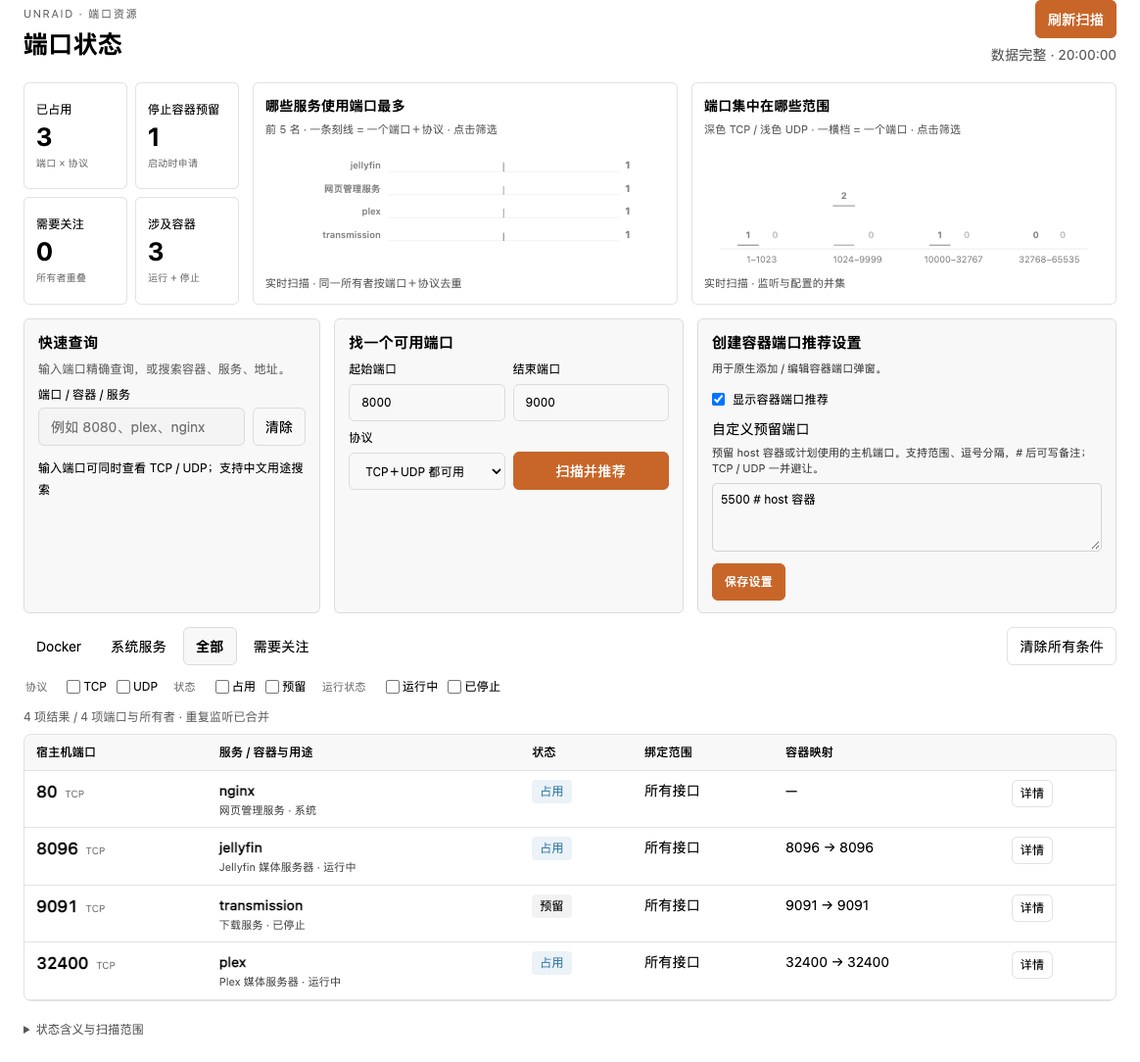
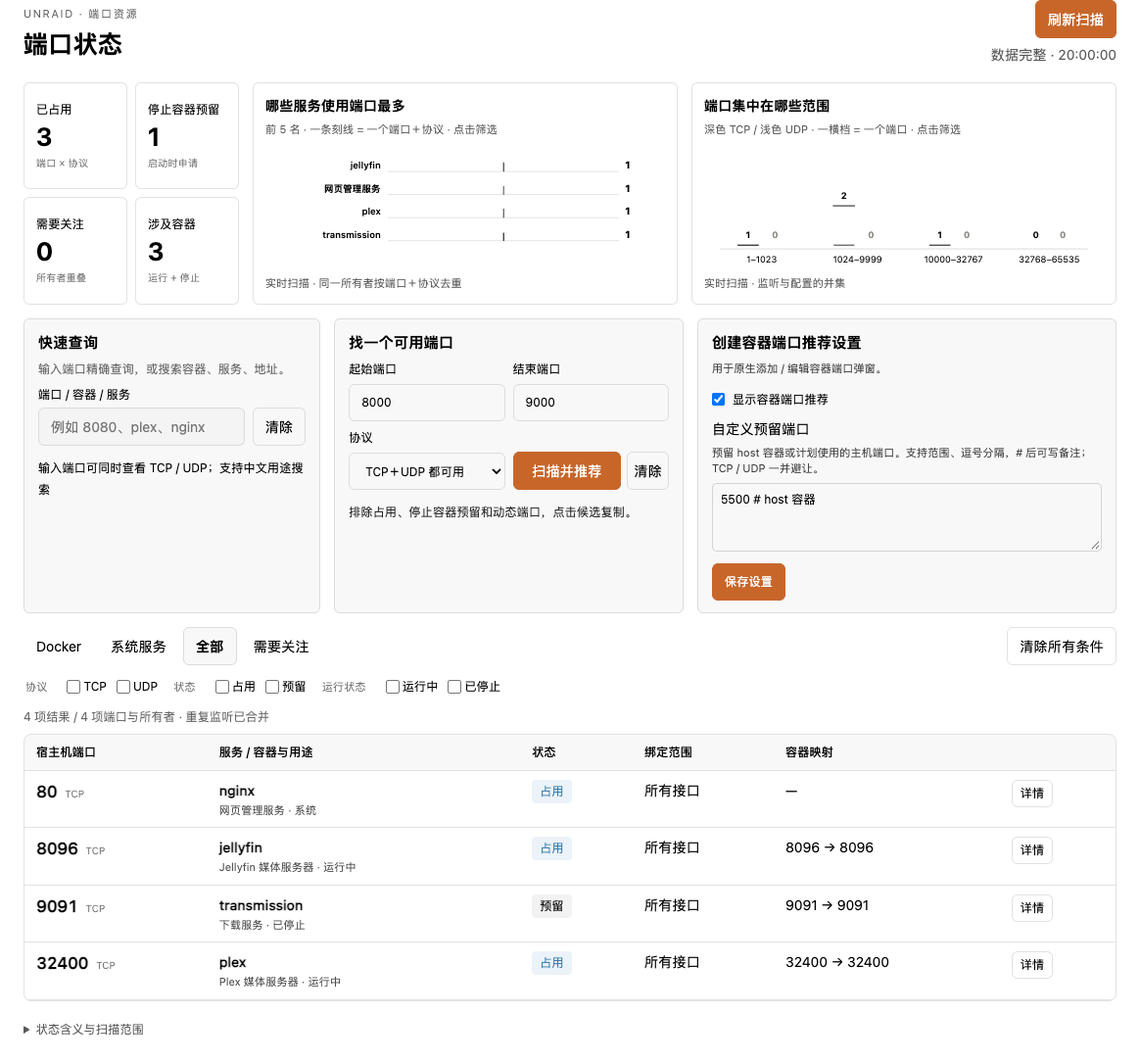
Fix primary button states and add available-port clear action

Changed region(s): [[0.3093, 0.4262, 0.5876, 0.4871], [0.2784, 0.1522, 0.3402, 0.1827]]

diff --git a/src/port-manager/assets/app.css b/src/port-manager/assets/app.css
@@ -1,4 +1,4 @@
-#port-manager{--pm-line:rgba(128,128,128,.23);--pm-soft:rgba(128,128,128,.06);--pm-accent:#c8662a;max-width:1440px;margin:24px auto;padding:0 24px 24px;font:14px/1.5 system-ui,sans-serif;color:inherit}#port-manager *{box-sizing:border-box}#port-manager h2{font-size:30px;font-weight:650;margin:6px 0}#port-manager h3{font-size:17px;margin:0 0 8px}#port-manager p{margin:6px 0}#port-manager button,#port-manager input,#port-manager select{font:inherit;color:inherit;border:1px solid var(--pm-line);border-radius:6px;background:transparent;padding:8px 12px;min-height:38px;width:auto;margin:0}#port-manager button{cursor:pointer}#port-manager button:hover{background:var(--pm-soft)}#port-manager button:disabled{opacity:.5;cursor:wait}#port-manager :focus-visible{outline:2px solid var(--pm-accent);outline-offset:3px}#port-manager .pm-primary{background:var(--pm-accent);border-color:var(--pm-accent);color:#fff}#port-manager .pm-primary:hover{filter:brightness(.95)}#port-manager .pm-header{display:flex;justify-content:space-between;align-items:center;margin-bottom:24px}#port-manager .pm-header>div:last-child{text-align:right}#port-manager .pm-header p{opacity:.65}.pm-eyebrow{font-size:11px;letter-spacing:1.6px;opacity:.6}#port-manager .pm-metrics{display:grid;grid-template-columns:repeat(4,1fr);gap:14px;margin-bottom:20px}#port-manager .pm-metrics button{text-align:left;padding:18px 20px;border-radius:9px}#port-manager .pm-metrics span,#port-manager .pm-metrics small{display:block}#port-manager .pm-metrics strong{display:block;font-size:32px;line-height:1.3;margin:10px 0 6px;font-weight:650}#port-manager .pm-metrics small{font-size:12px;opacity:.55}#port-manager .pm-workspace{display:grid;grid-template-columns:1fr 1.25fr;gap:20px;margin-bottom:24px}#port-manager .pm-query,#port-manager .pm-recommend{padding:20px;border:1px solid var(--pm-line);border-radius:9px;background:var(--pm-soft)}#port-manager .pm-query>p{opacity:.6;font-size:12px}#port-manager .pm-search-label{display:block;font-size:12px;margin:14px 0 6px}#port-manager .pm-search-box{display:flex;gap:8px}#port-manager .pm-search-box input{flex:1;min-width:0;width:100%;background:rgba(128,128,128,.03)}#port-manager #pm-answer{font-size:12px;margin-top:12px;line-height:1.8}#port-manager .pm-range{display:flex;align-items:end;gap:8px;margin-top:16px}#port-manager .pm-range label{display:block;min-width:0;font-size:12px}#port-manager .pm-range input{display:block;width:105px;margin-top:6px}#port-manager .pm-range select{display:block;margin-top:6px}#port-manager .pm-range>span{align-self:center;margin-top:20px;opacity:.5}#port-manager #pm-available{display:flex;flex-wrap:wrap;gap:6px;margin-top:14px;font-size:12px;opacity:.85}#port-manager .pm-candidate{min-height:30px;padding:4px 10px;font-variant-numeric:tabular-nums;background:rgba(128,128,128,.05)}#port-manager .pm-list-header{display:flex;align-items:center;justify-content:space-between;gap:14px}#port-manager .pm-tabs{display:flex;gap:4px}#port-manager .pm-tabs button{border-color:transparent}#port-manager .pm-tabs button[aria-pressed=true]{background:var(--pm-soft);border-color:var(--pm-line);font-weight:650}#port-manager .pm-filters{display:flex;gap:8px}#port-manager #pm-summary{font-size:12px;opacity:.6;margin:12px 0}#port-manager .pm-table{overflow:auto;border:1px solid var(--pm-line);border-radius:8px;max-height:620px}#port-manager table{width:100%;border-collapse:collapse;margin:0}#port-manager th,#port-manager td{padding:13px 16px;text-align:left;border-bottom:1px solid var(--pm-line);vertical-align:top}#port-manager th{font-size:12px;font-weight:500;background:var(--pm-soft);white-space:nowrap}#port-manager td:nth-child(2){min-width:180px}#port-manager td strong{font-weight:550}#port-manager td small{display:block;font-size:11px;opacity:.5;margin-top:4px}#port-manager .pm-port{font-size:17px;font-variant-numeric:tabular-nums}#port-manager .pm-proto{font-size:10px;margin-left:8px;opacity:.55}#port-manager .pm-badge{display:inline-block;border-radius:4px;padding:3px 8px;font-size:12px;white-space:nowrap}#port-manager .pm-occupied{background:rgba(57,124,183,.1);color:#377da9}#port-manager .pm-configured{background:rgba(128,128,128,.1)}#port-manager .pm-warning{background:rgba(192,134,37,.12);color:#a16b12}#port-manager .pm-conflict{background:rgba(203,64,64,.1);color:#c04438}#port-manager details summary{cursor:pointer}#port-manager td details{min-width:90px;max-width:330px;font-size:12px}#port-manager td details p{overflow-wrap:anywhere}#port-manager .pm-help{margin-top:20px;font-size:12px;opacity:.65}#port-manager .pm-empty{text-align:center;padding:36px} @media(max-width:1000px){#port-manager .pm-workspace{grid-template-columns:1fr}#port-manager .pm-list-header{align-items:start;flex-direction:column}}@media(max-width:650px){#port-manager{padding:0 12px}#port-manager .pm-metrics{grid-template-columns:repeat(2,1fr)}#port-manager .pm-header{align-items:start}#port-manager .pm-range{flex-wrap:wrap}#port-manager .pm-tabs,#port-manager .pm-filters{flex-wrap:wrap}#port-manager .pm-header h2{font-size:24px}}
+#port-manager{--pm-line:rgba(128,128,128,.23);--pm-soft:rgba(128,128,128,.06);--pm-accent:#c8662a;max-width:1440px;margin:24px auto;padding:0 24px 24px;font:14px/1.5 system-ui,sans-serif;color:inherit}#port-manager *{box-sizing:border-box}#port-manager h2{font-size:30px;font-weight:650;margin:6px 0}#port-manager h3{font-size:17px;margin:0 0 8px}#port-manager p{margin:6px 0}#port-manager button,#port-manager input,#port-manager select{font:inherit;color:inherit;border:1px solid var(--pm-line);border-radius:6px;background:transparent;padding:8px 12px;min-height:38px;width:auto;margin:0}#port-manager button{cursor:pointer;letter-spacing:normal;white-space:nowrap}#port-manager button:hover{background:var(--pm-soft)}#port-manager button:disabled{opacity:.5;cursor:wait}#port-manager :focus-visible{outline:2px solid var(--pm-accent);outline-offset:3px}#port-manager button.pm-primary{background:var(--pm-accent);border-color:var(--pm-accent);color:#fff}#port-manager button.pm-primary:hover{background:var(--pm-accent);color:#fff;filter:brightness(.95)}#port-manager .pm-header{display:flex;justify-content:space-between;align-items:center;margin-bottom:24px}#port-manager .pm-header>div:last-child{text-align:right}#port-manager .pm-header p{opacity:.65}.pm-eyebrow{font-size:11px;letter-spacing:1.6px;opacity:.6}#port-manager .pm-metrics{display:grid;grid-template-columns:repeat(4,1fr);gap:14px;margin-bottom:20px}#port-manager .pm-metrics button{text-align:left;padding:18px 20px;border-radius:9px}#port-manager .pm-metrics span,#port-manager .pm-metrics small{display:block}#port-manager .pm-metrics strong{display:block;font-size:32px;line-height:1.3;margin:10px 0 6px;font-weight:650}#port-manager .pm-metrics small{font-size:12px;opacity:.55}#port-manager .pm-workspace{display:grid;grid-template-columns:1fr 1.25fr;gap:20px;margin-bottom:24px}#port-manager .pm-query,#port-manager .pm-recommend{padding:20px;border:1px solid var(--pm-line);border-radius:9px;background:var(--pm-soft)}#port-manager .pm-query>p{opacity:.6;font-size:12px}#port-manager .pm-search-label{display:block;font-size:12px;margin:14px 0 6px}#port-manager .pm-search-box{display:flex;gap:8px}#port-manager .pm-search-box input{flex:1;min-width:0;width:100%;background:rgba(128,128,128,.03)}#port-manager #pm-answer{font-size:12px;margin-top:12px;line-height:1.8}#port-manager .pm-range{display:flex;align-items:end;gap:8px;margin-top:16px}#port-manager .pm-range label{display:block;min-width:0;font-size:12px}#port-manager .pm-range input{display:block;width:105px;margin-top:6px}#port-manager .pm-range select{display:block;margin-top:6px}#port-manager .pm-range>span{align-self:center;margin-top:20px;opacity:.5}#port-manager #pm-available{display:flex;flex-wrap:wrap;gap:6px;margin-top:14px;font-size:12px;opacity:.85}#port-manager .pm-candidate{min-height:30px;padding:4px 10px;font-variant-numeric:tabular-nums;background:rgba(128,128,128,.05)}#port-manager .pm-list-header{display:flex;align-items:center;justify-content:space-between;gap:14px}#port-manager .pm-tabs{display:flex;gap:4px}#port-manager .pm-tabs button{border-color:transparent}#port-manager .pm-tabs button[aria-pressed=true]{background:var(--pm-soft);border-color:var(--pm-line);font-weight:650}#port-manager .pm-filters{display:flex;gap:8px}#port-manager #pm-summary{font-size:12px;opacity:.6;margin:12px 0}#port-manager .pm-table{overflow:auto;border:1px solid var(--pm-line);border-radius:8px;max-height:620px}#port-manager table{width:100%;border-collapse:collapse;margin:0}#port-manager th,#port-manager td{padding:13px 16px;text-align:left;border-bottom:1px solid var(--pm-line);vertical-align:top}#port-manager th{font-size:12px;font-weight:500;background:var(--pm-soft);white-space:nowrap}#port-manager td:nth-child(2){min-width:180px}#port-manager td strong{font-weight:550}#port-manager td small{display:block;font-size:11px;opacity:.5;margin-top:4px}#port-manager .pm-port{font-size:17px;font-variant-numeric:tabular-nums}#port-manager .pm-proto{font-size:10px;margin-left:8px;opacity:.55}#port-manager .pm-badge{display:inline-block;border-radius:4px;padding:3px 8px;font-size:12px;white-space:nowrap}#port-manager .pm-occupied{background:rgba(57,124,183,.1);color:#377da9}#port-manager .pm-configured{background:rgba(128,128,128,.1)}#port-manager .pm-warning{background:rgba(192,134,37,.12);color:#a16b12}#port-manager .pm-conflict{background:rgba(203,64,64,.1);color:#c04438}#port-manager details summary{cursor:pointer}#port-manager td details{min-width:90px;max-width:330px;font-size:12px}#port-manager td details p{overflow-wrap:anywhere}#port-manager .pm-help{margin-top:20px;font-size:12px;opacity:.65}#port-manager .pm-empty{text-align:center;padding:36px} @media(max-width:1000px){#port-manager .pm-workspace{grid-template-columns:1fr}#port-manager .pm-list-header{align-items:start;flex-direction:column}}@media(max-width:650px){#port-manager{padding:0 12px}#port-manager .pm-metrics{grid-template-columns:repeat(2,1fr)}#port-manager .pm-header{align-items:start}#port-manager .pm-range{flex-wrap:wrap}#port-manager .pm-tabs,#port-manager .pm-filters{flex-wrap:wrap}#port-manager .pm-header h2{font-size:24px}}
 #port-manager .pm-metrics button{white-space:normal}#port-manager .pm-empty{white-space:normal}
 /* Compact overview, template-derived monochrome charts, stable detail drawer. */
 #port-manager .pm-header{margin-bottom:12px}#port-manager h2{font-size:25px;margin:3px 0}#port-manager .pm-overview{display:grid;grid-template-columns:220px 1fr 1fr;gap:14px;margin-bottom:14px}#port-manager .pm-metrics{grid-template-columns:1fr 1fr;gap:8px;margin:0}#port-manager .pm-metrics button{padding:10px 12px;border-radius:6px}#port-manager .pm-metrics strong{font-size:26px;margin:2px 0}#port-manager .pm-metrics span{font-size:12px}#port-manager .pm-metrics small{font-size:10px}#port-manager .pm-chart-card{border:1px solid var(--pm-line);border-radius:6px;padding:12px;min-width:0;--pm-chart-ink:currentColor;--pm-chart-muted:currentColor}#port-manager .pm-chart-card h3{font-size:14px;margin:0}#port-manager .pm-chart-card p,#port-manager .pm-chart-card small{font-size:11px;opacity:.65}#port-manager .pm-chart-card svg{width:100%;height:130px;display:block}#port-manager .pm-workspace{grid-template-columns:1fr 1.35fr;gap:14px;margin-bottom:14px}#port-manager .pm-query,#port-manager .pm-recommend{padding:12px 14px;border-radius:6px}#port-manager h3{font-size:15px}#port-manager .pm-search-label{margin:8px 0 4px}#port-manager .pm-range{margin-top:8px}#port-manager .pm-range input{width:90px}#port-manager .pm-range select{max-width:190px}#port-manager .pm-filters{display:flex;flex-wrap:wrap;gap:14px;margin-top:8px}#port-manager .pm-filters fieldset{display:flex;flex-wrap:wrap;align-items:center;gap:10px;border:0;padding:0;margin:0;min-width:0}#port-manager .pm-filters legend{float:left;font-size:11px;opacity:.55;margin:0 8px 0 0;line-height:28px;width:auto}#port-manager .pm-filters label{display:inline-flex;align-items:center;gap:3px;font-size:12px;cursor:pointer;white-space:nowrap}#port-manager .pm-filters input{min-height:0;width:14px;height:14px;padding:0;margin:0;appearance:auto;accent-color:var(--pm-accent)}#port-manager .pm-filter-tag{display:inline-block;padding:2px 6px;font-size:11px;border:1px solid var(--pm-line);border-radius:4px;margin:8px 5px 0 0}#port-manager #pm-summary{margin:8px 0}#port-manager th,#port-manager td{padding:9px 12px}#port-manager td small{margin-top:2px;font-size:11px;opacity:.7}#port-manager .pm-detail-button{min-height:28px;padding:2px 8px;font-size:12px}#port-manager .pm-candidate-group{width:100%}#port-manager .pm-candidate-group>span{display:block;font-weight:600;margin-bottom:4px}#port-manager .pm-candidate-group>div{display:flex;flex-wrap:wrap;gap:5px}#port-manager .pm-candidate-group+.pm-candidate-group{border-top:1px solid var(--pm-line);padding-top:8px;margin-top:4px}#port-manager #pm-detail{position:fixed;inset:0 0 0 auto;margin:0;width:min(440px,95vw);height:100dvh;max-height:100dvh;max-width:95vw;border:0;border-left:1px solid var(--pm-line);border-radius:0;padding:22px;background:var(--pm-drawer-bg,#f0f1f2);color:inherit;overflow:auto}#port-manager #pm-detail::backdrop{background:rgba(0,0,0,.25)}#port-manager .pm-detail-header{display:flex;justify-content:space-between;align-items:center;gap:10px;border-bottom:1px solid var(--pm-line);padding-bottom:14px}#port-manager .pm-detail-purpose{font-size:20px;font-weight:600;margin:22px 0 8px}#port-manager dl{display:grid;grid-template-columns:82px 1fr;gap:14px 10px;margin-top:24px}#port-manager dt{opacity:.6}#port-manager dd{margin:0;overflow-wrap:anywhere}#port-manager .pm-detail-note{border-top:1px solid var(--pm-line);padding-top:12px}@media(prefers-reduced-motion:no-preference){#port-manager .pm-chart-card svg{animation:pm-fade .35s ease-out}@keyframes pm-fade{from{opacity:.2}to{opacity:1}}}@media(max-width:1100px){#port-manager .pm-overview{grid-template-columns:180px 1fr 1fr}#port-manager .pm-workspace{grid-template-columns:1fr}#port-manager .pm-list-header{flex-direction:row;align-items:center}}@media(max-width:760px){#port-manager .pm-overview{grid-template-columns:1fr 1fr}#port-manager .pm-metrics{grid-column:1/-1;grid-template-columns:repeat(4,1fr)}#port-manager .pm-chart-card svg{height:110px}}@media(max-width:520px){#port-manager .pm-overview{grid-template-columns:1fr}#port-manager .pm-metrics{grid-template-columns:repeat(2,1fr)}#port-manager .pm-chart-card svg{height:140px}#port-manager .pm-list-header{flex-wrap:wrap}#port-manager .pm-range select{max-width:160px}}
@@ -11,7 +11,6 @@
 #port-manager .pm-settings-toggle{display:flex;align-items:center;gap:8px;margin:8px 0 10px}
 #port-manager .pm-settings textarea{box-sizing:border-box;width:100%;max-width:680px;display:block;padding:10px;border:1px solid #8885;border-radius:5px;background:transparent;color:inherit;font:inherit;font-size:13px;line-height:1.5;resize:vertical}
 #port-manager .pm-settings-actions{display:flex;align-items:center;flex-wrap:wrap;gap:12px;margin-top:12px;font-size:12px}
-#port-manager .pm-settings-actions button.pm-primary:hover{background:var(--pm-accent);color:#fff}
 #port-manager .pm-settings-toggle input{min-height:0;padding:0;flex:none}
 
 #port-manager .pm-workspace>section{min-width:0}
@@ -24,3 +23,7 @@
 #port-manager .pm-settings textarea{font-size:12px;padding:7px 8px}
 @media(min-width:1050px){#port-manager .pm-workspace{grid-template-columns:minmax(0,.85fr) minmax(0,1fr) minmax(0,1.2fr)}}
 @media(max-width:1049px){#port-manager .pm-workspace{grid-template-columns:1fr}}
+
+#port-manager .pm-range-actions{display:flex;gap:6px;align-items:center;min-width:0}
+#port-manager .pm-range-actions .pm-primary{flex:1;min-width:0}
+#port-manager button.pm-primary:active{background:var(--pm-accent);color:#fff;filter:brightness(.9)}

diff --git a/src/port-manager/assets/app.js b/src/port-manager/assets/app.js
@@ -1,6 +1,6 @@
 (()=>{'use strict';const root=document.getElementById('port-manager');if(!root)return;const el=id=>document.getElementById('pm-'+id),labels={occupied:'占用',configured:'预留',conflict:'启动冲突风险',warning:'绑定重叠，需确认'},params=new URLSearchParams(location.search);
 root.style.setProperty('--pm-drawer-bg',getComputedStyle(document.body).backgroundColor);const defaultView='all';
-let snapshot=null,view=params.get('view')||defaultView,busy=false,ownerFilter=null,rangeFilter=null,returnFocus=null;
+let snapshot=null,view=params.get('view')||defaultView,busy=false,ownerFilter=null,rangeFilter=null,returnFocus=null,rangeGeneration=0;
 const make=(tag,text,cls)=>{const e=document.createElement(tag);if(text!==undefined)e.textContent=text;if(cls)e.className=cls;return e;};const selected=k=>[...root.querySelectorAll(`input[name="pm-${k}"]:checked`)].map(c=>c.value);
 function setView(v){view=v;root.querySelectorAll('[data-view]').forEach(b=>b.setAttribute('aria-pressed',String(b.dataset.view===view)));}
 function reset(){ownerFilter=null;rangeFilter=null;root.querySelectorAll('.pm-filters input').forEach(c=>c.checked=false);el('search').value='';setView('all');render();}
@@ -9,8 +9,9 @@ function render(){el('risk-filter').hidden=!(snapshot?.summary.risks||view==='ri
 function drawCharts(){const rows=snapshot?.groups||[],C=window.PortManagerCharts;C.tickRows(el('chart-owners'),C.owners(rows).slice(0,5),d=>{ownerFilter=d;rangeFilter=null;el('search').value='';setView('all');render();});C.pairedRungs(el('chart-ranges'),rows,d=>{rangeFilter=d;ownerFilter=null;el('search').value='';setView('all');render();});}
 async function copy(port,button){try{if(navigator.clipboard&&window.isSecureContext)await navigator.clipboard.writeText(String(port));else{const input=make('textarea',String(port));input.style.position='fixed';input.style.opacity='0';root.append(input);input.select();const ok=document.execCommand('copy');input.remove();if(!ok)throw Error();}button.textContent='已复制 '+port;setTimeout(()=>button.textContent=port,1500);}catch{button.textContent='请手动复制 '+port;}}
 function candidates(data,protocol){el('available').replaceChildren();const names={both:'TCP＋UDP 都可用',tcp:'仅 TCP 可用',udp:'仅 UDP 可用'},groups=protocol==='both'?['both','tcp','udp']:protocol==='tcp'?['both','tcp']:['both','udp'];let total=0;for(const kind of groups){const items=data.protocolAvailability.filter(r=>r.kind===kind);if(!items.length)continue;const section=make('div',undefined,'pm-candidate-group'),heading=make('span'),list=make('div'),more=make('button','更多');more.type='button';let shown=0;const next=()=>{for(const item of items.slice(shown,shown+11)){const b=make('button',item.port,'pm-candidate');b.type='button';b.setAttribute('aria-label','复制 '+item.port+' '+names[kind]);b.addEventListener('click',()=>copy(item.port,b));list.insertBefore(b,more);}shown=Math.min(shown+11,items.length);heading.textContent=names[kind]+` · 共 ${items.length} 个，已显示 ${shown} 个`;more.hidden=shown===items.length;};more.addEventListener('click',next);list.append(more);section.append(heading,list);el('available').append(section);next();total+=items.length;}if(!total)el('available').textContent='范围内没有符合条件的候选';else el('available').prepend(make('p','已检查整个范围，分批展示候选；优先选择“两种都可用”。排除占用、预留、系统端口和动态端口。'));}
-async function scan(query=''){if(busy)return;busy=true;el('available').replaceChildren();el('refresh').disabled=true;el('find').querySelector('button').disabled=true;el('message').textContent='正在扫描…';try{const response=await fetch(root.dataset.api+'?'+query,{credentials:'same-origin',cache:'no-store'}),data=await response.json();if(!response.ok||data.error)throw Error(data.error||'扫描失败');snapshot=data;render();drawCharts();el('message').textContent=(data.complete?'数据完整':'数据不完整：'+data.errors.join('；'))+' · '+new Date(data.timestamp).toLocaleTimeString();if(data.protocolAvailability)candidates(data,new URLSearchParams(query).get('protocol'));}catch(error){snapshot=null;render();drawCharts();el('message').textContent=error.message;el('available').textContent='无法推荐：'+error.message;}finally{busy=false;el('refresh').disabled=false;el('find').querySelector('button').disabled=false;}}
+async function scan(query=''){if(busy)return;const generation=rangeGeneration;busy=true;el('available').replaceChildren();el('refresh').disabled=true;el('find').querySelector('button').disabled=true;el('message').textContent='正在扫描…';try{const response=await fetch(root.dataset.api+'?'+query,{credentials:'same-origin',cache:'no-store'}),data=await response.json();if(!response.ok||data.error)throw Error(data.error||'扫描失败');snapshot=data;render();drawCharts();el('message').textContent=(data.complete?'数据完整':'数据不完整：'+data.errors.join('；'))+' · '+new Date(data.timestamp).toLocaleTimeString();if(data.protocolAvailability&&generation===rangeGeneration)candidates(data,new URLSearchParams(query).get('protocol'));}catch(error){snapshot=null;render();drawCharts();el('message').textContent=error.message;if(generation===rangeGeneration)el('available').textContent='无法推荐：'+error.message;}finally{busy=false;el('refresh').disabled=false;el('find').querySelector('button').disabled=false;}}
 el('search').addEventListener('input',()=>{ownerFilter=null;rangeFilter=null;if(el('search').value.trim())setView('all');render();});root.querySelectorAll('.pm-filters input').forEach(c=>c.addEventListener('change',render));root.querySelectorAll('[data-view]').forEach(b=>b.addEventListener('click',()=>{setView(b.dataset.view);render();}));root.querySelectorAll('[data-metric]').forEach(b=>b.addEventListener('click',()=>{reset();const m=b.dataset.metric;if(['occupied','configured'].includes(m))root.querySelector(`input[name="pm-status"][value="${m}"]`).checked=true;setView(m==='risks'?'risks':m==='containers'?'Docker':'all');render();}));el('reset').addEventListener('click',reset);el('clear').addEventListener('click',()=>{el('search').value='';render();el('search').focus();});el('refresh').addEventListener('click',()=>scan());el('detail-close').addEventListener('click',()=>el('detail').close());el('detail').addEventListener('close',()=>returnFocus?.focus());el('detail').addEventListener('click',e=>{if(e.target===el('detail')){const box=el('detail').getBoundingClientRect();if(e.clientX<box.left||e.clientX>box.right||e.clientY<box.top||e.clientY>box.bottom)el('detail').close();}});
+el('clear-range').addEventListener('click',()=>{rangeGeneration++;el('start').value='';el('end').value='';el('find-protocol').value='both';el('available').textContent='排除占用、停止容器预留和动态端口，点击候选复制。';el('start').focus();});
 el('find').addEventListener('submit',e=>{e.preventDefault();const start=Number(el('start').value),end=Number(el('end').value);if(start>end){el('available').textContent='起始端口不能大于结束端口';return;}scan(new URLSearchParams({action:'available',start,end,protocol:el('find-protocol').value}).toString());});
 async function settings(save=false){const fields=el('settings-fields'),message=el('settings-message');fields.disabled=true;message.textContent=save?'正在保存…':'正在加载设置…';try{const options={credentials:'same-origin',cache:'no-store'};if(save){options.method='POST';options.body=new URLSearchParams({enabled:el('recommend-enabled').checked?'1':'0',reserved:el('reserved-ports').value,csrf_token:document.getElementById('pm-csrf-token').value});}const response=await fetch('/plugins/port-manager/include/settings.php',options),data=await response.json();if(!response.ok||data.error)throw Error(data.error||'设置操作失败');el('recommend-enabled').checked=data.enabled;el('reserved-ports').value=data.reserved;fields.disabled=false;message.textContent=save?'已保存，下次打开端口弹窗时生效。':'';}catch(error){message.textContent=error instanceof SyntaxError?'无法读取结果，请检查登录状态并刷新':error.message;if(save)fields.disabled=false;}}
 el('settings-form').addEventListener('submit',event=>{event.preventDefault();settings(true);});settings();

diff --git a/src/port-manager/include/view.html b/src/port-manager/include/view.html
@@ -1,10 +1,10 @@
-<link rel="stylesheet" href="/plugins/port-manager/assets/app.css?v=2026.10.04">
+<link rel="stylesheet" href="/plugins/port-manager/assets/app.css?v=2026.10.05">
 <section id="port-manager" data-api="/plugins/port-manager/include/api.php">
 <header class="pm-header"><div><div class="pm-eyebrow">UNRAID · 端口资源</div><h2>端口状态</h2></div><div><button id="pm-refresh" class="pm-primary">刷新扫描</button><p id="pm-message" role="status">正在扫描…</p></div></header>
 <div class="pm-overview"><div class="pm-metrics"><button data-metric="occupied"><span>已占用</span><strong id="pm-count-occupied">—</strong><small>端口 × 协议</small></button><button data-metric="configured"><span>停止容器预留</span><strong id="pm-count-configured">—</strong><small>启动时申请</small></button><button data-metric="risks"><span>需要关注</span><strong id="pm-count-risks">—</strong><small>所有者重叠</small></button><button data-metric="containers"><span>涉及容器</span><strong id="pm-count-containers">—</strong><small>运行 + 停止</small></button></div><section class="pm-chart-card"><h3>哪些服务使用端口最多</h3><p>前 5 名 · 一条刻线 = 一个端口＋协议 · 点击筛选</p><svg id="pm-chart-owners" role="img" aria-label="服务端口数量排名"></svg><small>实时扫描 · 同一所有者按端口＋协议去重</small></section><section class="pm-chart-card"><h3>端口集中在哪些范围</h3><p>深色 TCP / 浅色 UDP · 一横档 = 一个端口 · 点击筛选</p><svg id="pm-chart-ranges" role="img" aria-label="端口范围与协议分布"></svg><small>实时扫描 · 监听与配置的并集</small></section></div>
-<div class="pm-workspace"><section class="pm-query"><h3>快速查询</h3><p>输入端口精确查询，或搜索容器、服务、地址。</p><label class="pm-search-label" for="pm-search">端口 / 容器 / 服务</label><div class="pm-search-box"><input id="pm-search" type="search" placeholder="例如 8080、plex、nginx"><button id="pm-clear">清除</button></div><div id="pm-answer" aria-live="polite">输入端口即可查看 TCP / UDP 使用情况</div></section><section class="pm-recommend"><h3>找一个可用端口</h3><form id="pm-find"><div class="pm-range"><label>起始端口<input id="pm-start" type="number" min="1" max="65535" value="8000" required></label><span>—</span><label>结束端口<input id="pm-end" type="number" min="1" max="65535" value="9000" required></label><label>协议<select id="pm-find-protocol"><option value="both">TCP＋UDP 都可用</option><option value="tcp">TCP 可用</option><option value="udp">UDP 可用</option></select></label><button class="pm-primary">扫描并推荐</button></div></form><div id="pm-available" role="status">排除占用、停止容器预留和动态端口，点击候选复制。</div></section>
+<div class="pm-workspace"><section class="pm-query"><h3>快速查询</h3><p>输入端口精确查询，或搜索容器、服务、地址。</p><label class="pm-search-label" for="pm-search">端口 / 容器 / 服务</label><div class="pm-search-box"><input id="pm-search" type="search" placeholder="例如 8080、plex、nginx"><button id="pm-clear">清除</button></div><div id="pm-answer" aria-live="polite">输入端口即可查看 TCP / UDP 使用情况</div></section><section class="pm-recommend"><h3>找一个可用端口</h3><form id="pm-find"><div class="pm-range"><label>起始端口<input id="pm-start" type="number" min="1" max="65535" value="8000" required></label><span>—</span><label>结束端口<input id="pm-end" type="number" min="1" max="65535" value="9000" required></label><label>协议<select id="pm-find-protocol"><option value="both">TCP＋UDP 都可用</option><option value="tcp">TCP 可用</option><option value="udp">UDP 可用</option></select></label><div class="pm-range-actions"><button type="submit" class="pm-primary">扫描并推荐</button><button type="button" id="pm-clear-range">清除</button></div></div></form><div id="pm-available" role="status">排除占用、停止容器预留和动态端口，点击候选复制。</div></section>
 <section id="pm-container-settings" class="pm-settings"><h3>创建容器端口推荐设置</h3><p>用于原生添加 / 编辑容器端口弹窗。</p><form id="pm-settings-form"><fieldset id="pm-settings-fields" disabled><label class="pm-settings-toggle"><input id="pm-recommend-enabled" type="checkbox"> 显示容器端口推荐</label><label for="pm-reserved-ports">自定义预留端口</label><p id="pm-reserved-help">预留 host 容器或计划使用的主机端口。支持范围、逗号分隔，# 后可写备注；TCP / UDP 一并避让。</p><textarea id="pm-reserved-ports" rows="3" maxlength="32768" spellcheck="false" aria-describedby="pm-reserved-help" placeholder="5500 # 我的 host 容器&#10;5600-5610,6200 # 计划部署的服务"></textarea><div class="pm-settings-actions"><button type="submit" class="pm-primary">保存设置</button><span id="pm-settings-message" role="status">正在加载设置…</span></div></fieldset></form></section></div>
 <section class="pm-inventory"><div class="pm-list-header"><div class="pm-tabs" role="group" aria-label="查看范围"><button data-view="Docker" aria-pressed="true">Docker</button><button data-view="System" aria-pressed="false">系统服务</button><button data-view="all" aria-pressed="false">全部</button><button data-view="risks" aria-pressed="false">需要关注</button></div><button id="pm-reset">清除所有条件</button></div><div class="pm-filters"><fieldset><legend>协议</legend><label><input type="checkbox" name="pm-protocol" value="tcp"> TCP</label><label><input type="checkbox" name="pm-protocol" value="udp"> UDP</label></fieldset><fieldset><legend>状态</legend><label><input type="checkbox" name="pm-status" value="occupied"> 占用</label><label><input type="checkbox" name="pm-status" value="configured"> 预留</label></fieldset><fieldset><legend>运行状态</legend><label><input type="checkbox" name="pm-running" value="true"> 运行中</label><label><input type="checkbox" name="pm-running" value="false"> 已停止</label></fieldset><fieldset id="pm-risk-filter" hidden><legend>风险</legend><label><input type="checkbox" name="pm-risk" value="warning"> 绑定重叠，需确认</label><label><input type="checkbox" name="pm-risk" value="conflict"> 启动冲突风险</label></fieldset></div><div id="pm-active-filters" aria-live="polite"></div><p id="pm-summary"></p><div class="pm-table"><table><thead><tr><th>宿主机端口</th><th>服务 / 容器与用途</th><th>状态</th><th>绑定范围</th><th>容器映射</th><th></th></tr></thead><tbody id="pm-rows"></tbody></table></div></section>
 <details class="pm-help"><summary>状态含义与扫描范围</summary><p>占用和预留均会排除在推荐之外。统计按端口 + 协议去重；表格按端口、协议和所有者合并。风险与占用、预留分开判断。“绑定重叠，需确认”表示不同进程的监听地址重叠，或 IPv4 / IPv6 绑定存在歧义；共享监听可能合法。“启动冲突风险”表示不同容器配置申请相同协议、端口和重叠地址，或容器配置与其他监听重叠，例如两个停止容器都配置 TCP 8080。风险不等同于已经启动失败。</p><p>推荐排除 1024 以下端口及系统动态范围，保守排除同协议的所有地址绑定。结果仅代表扫描时刻。独立 IP 容器和 VM 的内部端口不属于宿主机端口；未创建容器的模板不计入预留。</p></details>
 <dialog id="pm-detail" aria-labelledby="pm-detail-title"><div class="pm-detail-header"><h3 id="pm-detail-title">端口详情</h3><button id="pm-detail-close" aria-label="关闭详情">关闭</button></div><div id="pm-detail-body"></div></dialog>
-</section><script src="/plugins/port-manager/assets/charts.js?v=2026.10.04"></script><script src="/plugins/port-manager/assets/app.js?v=2026.10.04"></script>
+</section><script src="/plugins/port-manager/assets/charts.js?v=2026.10.05"></script><script src="/plugins/port-manager/assets/app.js?v=2026.10.05"></script>

diff --git a/tests/package.py b/tests/package.py
@@ -14,7 +14,7 @@ assert plugin.attrib['support'] == 'https://github.com/mizhimu/unraid-port-manag
 assert plugin.attrib['pluginURL'] == 'https://raw.githubusercontent.com/mizhimu/unraid-port-manager/main/port-manager.plg'
 assert plugin.attrib['name'] == 'port-manager'
 assert plugin.find('CHANGES').text.strip() == (root / 'CHANGELOG.md').read_text().strip()
-for version in ['1.0.0','1.0.2','1.0.3','1.0.4','1.1.0','1.1.1','2026.10.04']:
+for version in ['1.0.0','1.0.2','1.0.3','1.0.4','1.1.0','1.1.1','2026.10.04','2026.10.05']:
     assert f'## {version}' in plugin.find('CHANGES').text
 payload = base64.b64decode(plugin.find('FILE/INLINE').text)
 assert hashlib.sha256(payload).hexdigest() in plugin.findall('FILE')[1].find('INLINE').text

diff --git a/scripts/build.py b/scripts/build.py
@@ -2,7 +2,7 @@
 """Build a self-contained offline Unraid PLG; no remote release URL required."""
 from pathlib import Path
 import base64, hashlib, io, tarfile
-VERSION = '2026.10.04'
+VERSION = '2026.10.05'
 AUTHOR = 'mizhimu'
 root = Path(__file__).resolve().parents[1]
 (root/'dist').mkdir(exist_ok=True)

diff --git a/TESTING.md b/TESTING.md
@@ -60,3 +60,8 @@ Do not treat fixture, syntax or archive checks as evidence of target-machine run
 - Date-based metadata supports upgrade from earlier 1.x versions; installed NAS version and API checks are reported separately from mocked browser evidence.
 
 - Installed 2026.10.04 on Unraid 7.3.2 successfully; metadata showed the date version, historical CHANGES entries were present, and the installed recommendation API returned a complete snapshot.
+
+## 2026.10.05 checks
+
+- Browser fixture checks refresh/recommend button background and white text on hover and mouse-down, normal letter spacing, clearing bounds/protocol/candidates, and ignoring a delayed recommendation after clearing.
+- Existing settings save/reload/validation checks and desktop/narrow layout checks passed with the additional clear control.

diff --git a/CHANGELOG.md b/CHANGELOG.md
@@ -1,5 +1,11 @@
 # Changelog
 
+## 2026.10.05 — 2026-10-05
+
+- 修复完整页“刷新扫描”和“扫描并推荐”按钮悬停时背景被覆盖、文字对比不足的问题。
+- 为可用端口查找增加“清除”按钮，一键清空范围、恢复默认协议并清除候选结果。
+- 清除后忽略此前尚未返回的推荐结果，避免候选再次出现。
+
 ## 2026.10.04 — 2026-10-04
 
 - 完整页将快速查询、可用端口和容器推荐设置放在同一排，缩短查询区域；窄屏自动纵向排列。

diff --git a/README.md b/README.md
@@ -24,7 +24,7 @@
 
 ### 端口查询
 
-按端口、容器或服务搜索，查看占用状态、绑定地址和映射关系；也可以指定范围查找可用端口。
+按端口、容器或服务搜索，查看占用状态、绑定地址和映射关系；也可以指定范围查找可用端口，点击“清除”清空范围和推荐结果。
 
 ![端口查询页面](docs/images/port-status-page.png)
 
